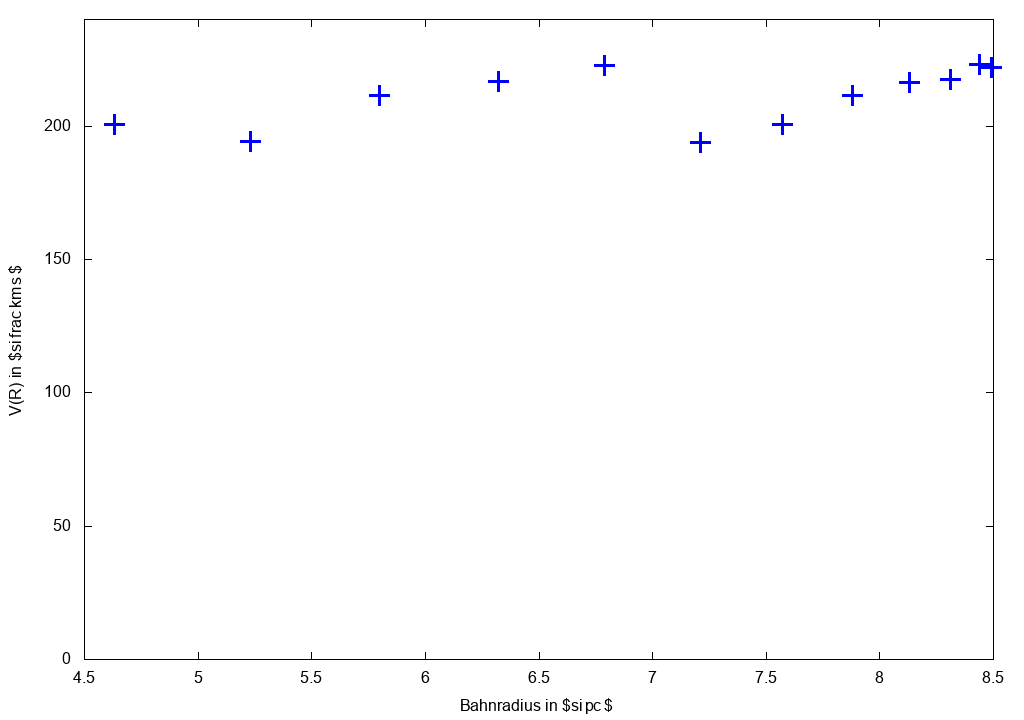
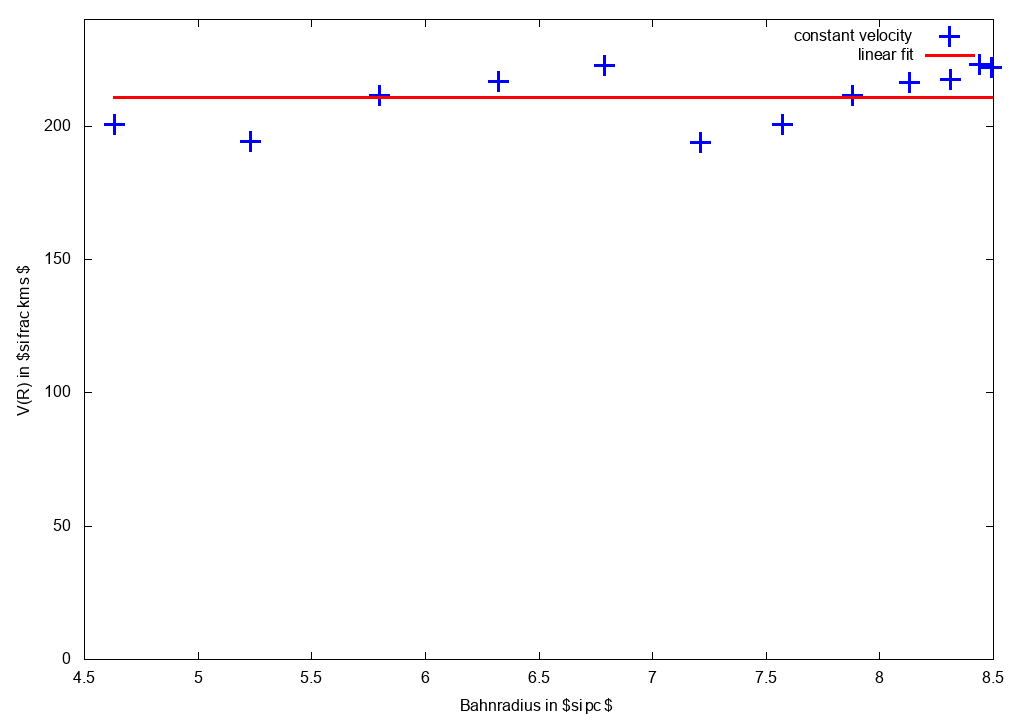
konstanter fit v(R)

Changed region(s): [[0.125, 0.1222, 0.9688, 0.1528], [0.7812, 0.0306, 0.9375, 0.0917], [0.0, 0.3667, 0.0312, 0.5806]]

diff --git a/Auswertung/plots/VvonR.tex b/Auswertung/plots/VvonR.tex
@@ -103,8 +103,12 @@
     }%
     \gplgaddtomacro\gplfronttext{%
       \csname LTb\endcsname%%
-      \put(209,2761){\rotatebox{-270}{\makebox(0,0){\strut{}V(R) in $\si{}{\frac{km}{s}$}}}%
+      \put(308,2761){\rotatebox{-270}{\makebox(0,0){\strut{}V(R) in $\si{}{\frac{km}{s}$}}}%
       \put(3874,154){\makebox(0,0){\strut{}Bahnradius in $\si{}{pc}$}}%
+      \csname LTb\endcsname%%
+      \put(5816,4646){\makebox(0,0)[r]{\strut{}constant velocity}}%
+      \csname LTb\endcsname%%
+      \put(5816,4426){\makebox(0,0)[r]{\strut{}linear fit}}%
     }%
     \gplbacktext
     \put(0,0){\includegraphics{plots/VvonR}}%

diff --git a/Auswertung/main.tex b/Auswertung/main.tex
@@ -39,9 +39,9 @@
     \caption{todo}
     \label{fig:Sonnenabbild}
 \end{figure}
-Test1
- aaxljnsöadm
-     asldknsöädnm
+Test5
+
+
 \begin{figure}[H]
     \centering
     \input{plots/Sonnenkreuz_Az.tex}
@@ -64,9 +64,9 @@ Test1
     \label{fig:V(R)}
 \end{figure}
 
-     \newpage
-     \bibliography{literatur}
- \bibliographystyle{babalpha}
- \listoffigures
+\newpage
+\bibliography{literatur}
+\bibliographystyle{babalpha}
+\listoffigures
  
- \end{document}
+\end{document}
